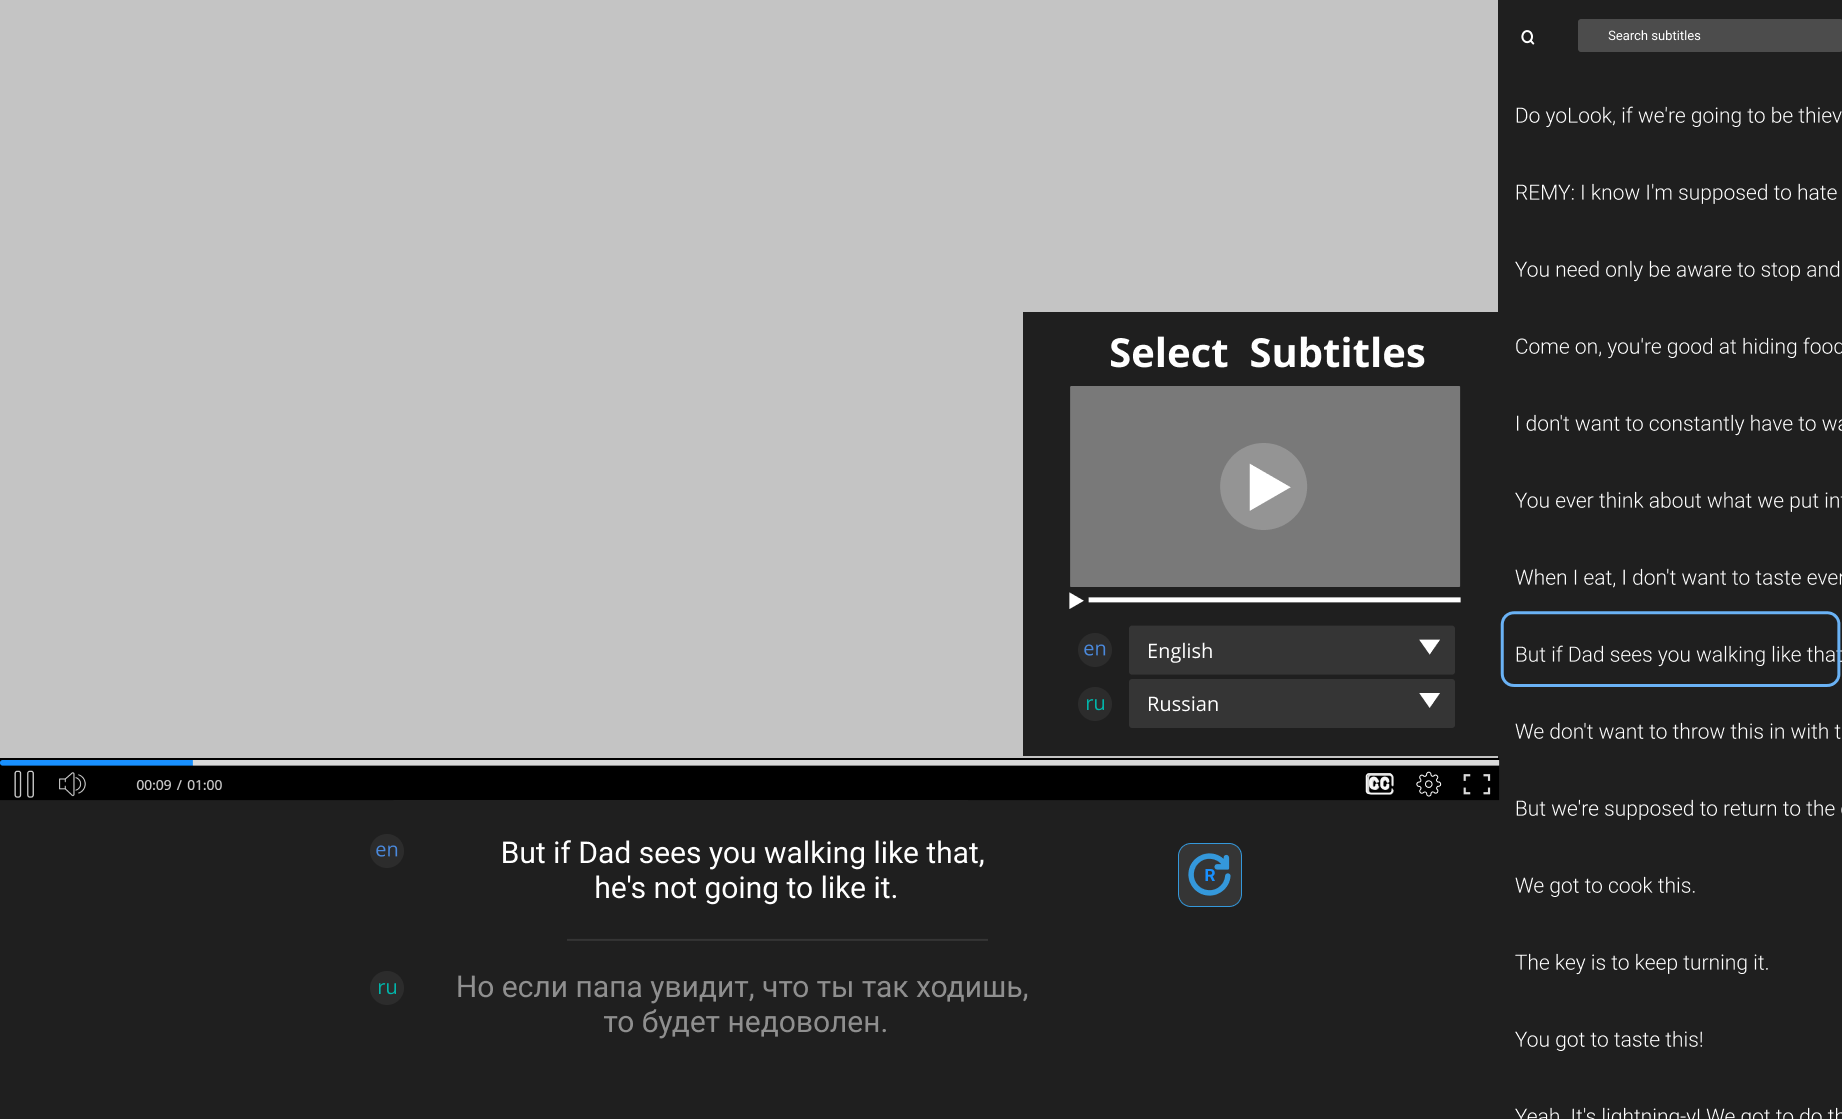
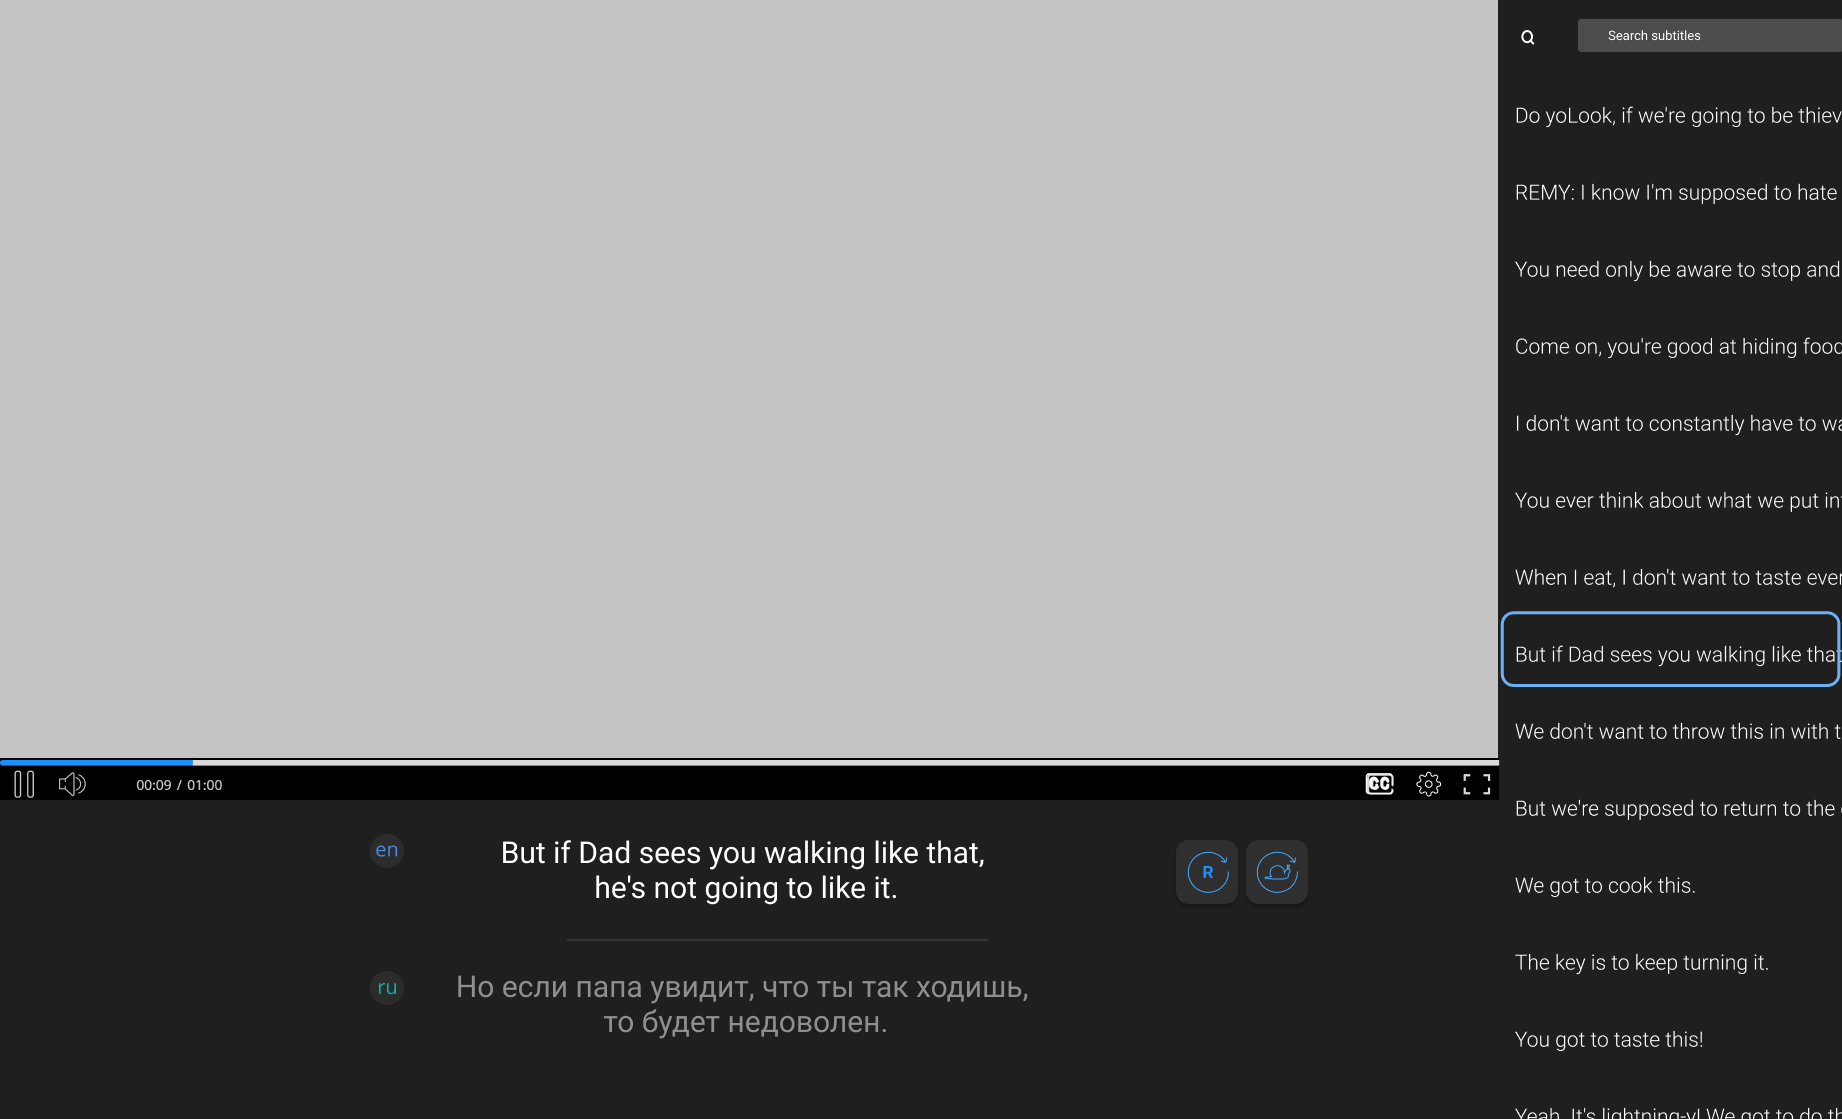
Accourding to Issue #154, the first version without image arrows activity was implemented.

Changed region(s): [[0.557, 0.2735, 0.8355, 0.6988], [0.6189, 0.7596, 0.7117, 0.8204]]

diff --git a/src/pages/PlayerAnimation/index.jsx b/src/pages/PlayerAnimation/index.jsx
@@ -10,14 +10,19 @@ import initialBackground from "../../assets/images/player-animation/background-i
 
 import backgroundA from "../../assets/images/player-animation/background-images/stepBackground1.png";
 import backgroundB from "../../assets/images/player-animation/background-images/stepBackground2.png";
-import backgroundС from "../../assets/images/player-animation/background-images/stepBackground6.png";
-import backgroundD from "../../assets/images/player-animation/background-images/stepBackground6.png";
-import backgroundE from "../../assets/images/player-animation/background-images/stepBackground6.png";
-import backgroundF from "../../assets/images/player-animation/background-images/testi.png";
-import backgroundG from "../../assets/images/player-animation/background-images/stepBackground8.png";
-import backgroundH from "../../assets/images/player-animation/background-images/stepBackground9.png";
+import backgroundС from "../../assets/images/player-animation/background-images/stepBackground3.png";
+import backgroundD from "../../assets/images/player-animation/background-images/stepBackground4.png";
+import backgroundE from "../../assets/images/player-animation/background-images/stepBackground5.png";
+import backgroundF from "../../assets/images/player-animation/background-images/stepBackground6.png";
+import backgroundG from "../../assets/images/player-animation/background-images/stepBackground7.png";
+import backgroundH from "../../assets/images/player-animation/background-images/stepBackground8.png";
+import backgroundI from "../../assets/images/player-animation/background-images/stepBackground10.png";
 
 import backgroundFinal from "../../assets/images/player-animation/background-images/finalBackground.png";
+
+import keyboardA from "../../assets/images/player-animation/step-images/keyboard-arrows-a.png";
+import keyboardB from "../../assets/images/player-animation/step-images/keyboard-arrows-b.png";
+import keyboardC from "../../assets/images/player-animation/step-images/keyboard-arrows-c.png";
 
 import leftArrow from "../../assets/images/player-animation/arrow-images/leftArrow.svg";
 import rightArrow from "../../assets/images/player-animation/arrow-images/rightArrow.svg";
@@ -168,12 +173,12 @@ export default class PlayerAnimation extends Component {
             .attr("opacity", "0");
         };
 
-        function addSmallArrows(arrowsTypeA, arrowsTypeB, arrowsImage, x, y){
+        function addSideImg(arrowsTypeA, arrowsTypeB, arrowsImage, x, y){
             d3.select(arrowsTypeA)
                 .attr("opacity", "1")
                 .attr("xlink:href", arrowsImage)
-                .attr("height", "550")
-                .attr("width", "550")
+                .attr("height", "330")
+                .attr("width", "840")
                 .attr("x", x)
             .attr("y", y);
 
@@ -185,7 +190,7 @@ export default class PlayerAnimation extends Component {
         };
 
 
-        function removeAllSmallArrows(){
+        function removeSideImg(){
             d3.selectAll(".small-arrows")
             .attr("opacity", "0");
         };
@@ -244,7 +249,7 @@ export default class PlayerAnimation extends Component {
         function action(value){
 
             var sum = clicks + value;
-            if (sum >= 0 && sum < 10) {
+            if (sum >= 0 && sum < 12) {
                 clicks = sum;
                 window.parent.postMessage(
                     {
@@ -280,31 +285,35 @@ export default class PlayerAnimation extends Component {
                     hideContentOf(document.querySelector("#steps-svg-field_instruction-group"));
                     hideContentOf(document.querySelector("#instruction-image"));
                     makeStep(step.coordinatesB, backgroundС, textData.step3A, textData.step3B, textData.step3C);
-                    removeBigArrows();
                     break;
                 case 4:
                     makeStep(step.coordinatesC, backgroundD, textData.step4A, textData.step4B, textData.step4C);
-                    addBigArrows();
-                    removeAllSmallArrows();
+                    removeSideImg();
                     break;
                 case 5:
                     makeStep(step.coordinatesD, backgroundE, textData.step5A, textData.step5B, textData.step5C);
-                    removeBigArrows();
-                    addSmallArrows("#small-arrows_a", "#small-arrows_b", smallArrowsA, "44%", "26%")
+                    addSideImg("#small-arrows_a", "#small-arrows_b", keyboardA, "31%", "35%")
                     break;
                 case 6:
                     makeStep(step.coordinatesE, backgroundF, textData.step6A, textData.step6B, textData.step6C);
-                    removeAllSmallArrows();
+                    addSideImg("#small-arrows_a", "#small-arrows_b", keyboardA, "31%", "35%")
                     break;
                 case 7:
                     makeStep(step.coordinatesF, backgroundG, textData.step7A, textData.step7B, textData.step7C);
-                    removeAllSmallArrows();
+                    addSideImg("#small-arrows_a", "#small-arrows_b", keyboardA, "31%", "35%")
                     break;
                 case 8:
-                    changeTextColorOn("black")
+                    removeSideImg();
                     makeStep(step.coordinatesG, backgroundH, textData.step8A, textData.step8B, textData.step8C);
                     break;
                 case 9:
+                    makeStep(step.coordinatesH, backgroundH, textData.step9A, textData.step9B, textData.step9C);
+                    break;
+                case 10:
+                    changeTextColorOn("black")
+                    makeStep(step.coordinatesI, backgroundI, textData.step10A, textData.step10B, textData.step10C);
+                    break;
+                case 11:
                     changeTextColorOn("white")
                     makeStep(step.coordinatesFinal, backgroundFinal, textData.stepFinalA, textData.stepFinalB, textData.stepFinalC);
                 default:
@@ -357,7 +366,7 @@ export default class PlayerAnimation extends Component {
                             <text x="50%" y="43%" className="rectangle-text" textAnchor="middle" fill="white" fontSize="45px">
                                 {this.getLangText("stepInitialA")}
                             </text>
-                            <text x="51%" y="49%" className="rectangle-text" textAnchor="middle" fill="white" fontSize="45px">
+                            <text x="50%" y="49%" className="rectangle-text" textAnchor="middle" fill="white" fontSize="45px">
                                 {this.getLangText("stepInitialB")}
                             </text>
                             <text x="45%" y="22%" className="rectangle-text" textAnchor="middle" fill="white" fontSize="45px">

diff --git a/src/pages/PlayerAnimation/coordinates.jsx b/src/pages/PlayerAnimation/coordinates.jsx
@@ -46,9 +46,9 @@ function Coordinates(
 };
 
 export const coordinatesInitial = new Coordinates(
-    "17.5%", "84%", "5.5%", "4%", "0",
-    "17.5%", "84%", "10%", "10%",
-    "82.5%", "84%", "3%", "2.5%", "0s",
+    "17%", "84%", "6.5%", "4%", "0",
+    "17%", "84%", "11%", "10%",
+    "82.5%", "84%", "5%", "2.5%", "0s",
     "30%", "50%", "13%", "18%",
     "39%", "57.5%", "39%", "60%", "39%", "63%",
 );
@@ -62,9 +62,9 @@ export const coordinatesA = new Coordinates(
 );
 
 export const coordinatesB = new Coordinates(
-    "47%", "85%", "35%", "5%", "0",
-    "47%", "85%", "37%",  "9%",
-    "52%", "85%", "40%", "2.5%", "0s",
+    "47%", "85%", "38%", "5%", "0",
+    "47%", "85%", "43%",  "15%",
+    "52%", "85%", "43%", "2.5%", "0s",
     "30%", "35%", "16%", "32%",
     "45%", "40%", "45.5%", "44%", "45%", "48%",
 );
@@ -81,11 +81,27 @@ export const coordinatesD = new Coordinates(
     "90%", "64%", "12%", "2%", "0",
     "90%", "64%", "15%", "5%",
     "10%", "63%", "10%", "2.5%", "0s",
-    "43%", "20%", "13%", "39%",
-    "62%", "25.5%", "62%", "30.5%", "62%", "35%",
+    "43%", "20%", "13%", "30%",
+    "57%", "25.5%", "58%", "30.5%", "59%", "35%",
 );
 
 export const coordinatesE = new Coordinates(
+    "65%", "77%", "6%", "1%", "0",
+    "65%", "77%", "7%", "1%",
+    "35%", "76.5%", "6.2%", "2.5%", "0s",
+    "43%", "20%", "13%", "30%",
+    "57.5%", "28%", "58%", "32.5%", "59%", "35%",
+);
+
+export const coordinatesF = new Coordinates(
+    "71%", "77%", "6%", "1%", "0",
+    "71%", "77%", "7%", "1%",
+    "29%", "76.6%", "6.1%", "2.5%", "0s",
+    "33%", "20%", "13%", "40%",
+    "53%", "28%", "53%", "32.5%", "54%", "35%",
+);
+
+export const coordinatesG = new Coordinates(
     "44%", "77%", "13%", "7%", "0",
     "44%", "77%", "20%", "15%",
     "56%", "76%", "13%", "2.5%", "0s",
@@ -93,29 +109,21 @@ export const coordinatesE = new Coordinates(
     "44.3%", "50.5%", "44.3%", "54.5%", "44.3%", "55%",
 );
 
-export const coordinatesF = new Coordinates(
-    "54.3%", "70.5%", "4%", "2.5%", "0",
-    "54.3%", "70.5%", "6%", "5%",
-    "46%", "71%", "4%", "2.5%", "0s",
+export const coordinatesH = new Coordinates(
+    "56.8%", "70.5%", "4%", "2.5%", "0",
+    "56.8%", "70.5%", "6%", "5%",
+    "43%", "71%", "4%", "2.5%", "0s",
     "37%", "42%", "12%", "17.5%",
-    "46%", "47%", "46%", "51%", "39%", "55%",
+    "46%", "47%", "46%", "51%", "46%", "55%",
 );
 
-export const coordinatesG = new Coordinates(
-    "54.3%", "70.5%", "15%", "2.5%", "0",
-    "54.3%", "70.5%", "16%", "5%",
-    "46%", "71%", "18%", "2.5%", "0s",
-    "50%", "22%", "12%", "32%",
-    "65%", "27%", "66%", "32%", "69%", "37%",
+export const coordinatesI = new Coordinates(
+    "54%", "70%", "17.5%", "2.5%", "0",
+    "54%", "70%", "19.5%", "5%",
+    "46%", "70.5%", "21%", "2.5%", "0s",
+    "43%", "20%", "12%", "35%",
+    "60.5%", "25%", "60.7%", "29%", "60.5%", "33%",
 );
-
-// export const coordinatesH = new Coordinates(
-//     "54%", "70%", "17.5%", "2.5%", "0",
-//     "54%", "70%", "19.5%", "5%",
-//     "46%", "70.5%", "21%", "2.5%", "0s",
-//     "45%", "20%", "16%", "18%",
-//     "53.5%", "25%", "53.7%", "29%", "53.5%", "33%",
-// );
 
 export const coordinatesFinal = new Coordinates(
     "54%", "70%", "0%", "2.5%", "0",
@@ -124,3 +132,37 @@ export const coordinatesFinal = new Coordinates(
     "45%", "20%", "0%", "0%",
     "50%", "35%", "50%", "40%", "50%", "57%",
 );
+
+////////////////////////////////////////////////////
+
+// export const coordinatesE = new Coordinates(
+//     "44%", "77%", "13%", "7%", "0",
+//     "44%", "77%", "20%", "15%",
+//     "56%", "76%", "13%", "2.5%", "0s",
+//     "30%", "45%", "12%", "29%",
+//     "44.3%", "50.5%", "44.3%", "54.5%", "44.3%", "55%",
+// );
+
+// export const coordinatesF = new Coordinates(
+//     "54.3%", "70.5%", "4%", "2.5%", "0",
+//     "54.3%", "70.5%", "6%", "5%",
+//     "46%", "71%", "4%", "2.5%", "0s",
+//     "37%", "42%", "12%", "17.5%",
+//     "46%", "47%", "46%", "51%", "39%", "55%",
+// );
+
+// export const coordinatesG = new Coordinates(
+//     "54.3%", "70.5%", "15%", "2.5%", "0",
+//     "54.3%", "70.5%", "16%", "5%",
+//     "46%", "71%", "18%", "2.5%", "0s",
+//     "50%", "22%", "12%", "32%",
+//     "65%", "27%", "66%", "32%", "69%", "37%",
+// );
+
+// export const coordinatesH = new Coordinates(
+//     "54%", "70%", "17.5%", "2.5%", "0",
+//     "54%", "70%", "19.5%", "5%",
+//     "46%", "70.5%", "21%", "2.5%", "0s",
+//     "45%", "20%", "16%", "18%",
+//     "53.5%", "25%", "53.7%", "29%", "53.5%", "33%",
+// );

diff --git a/src/components/Navbar/Navbar.scss b/src/components/Navbar/Navbar.scss
@@ -21,6 +21,13 @@
     };
 };
 
+// #getLang{
+//     height: 30px;
+//     width: 100px;
+//     border-radius: 50%;
+//     background-color: red;
+// }
+
 .Navbar {
     @include centralFlexPosition;
     position: -webkit-sticky;
